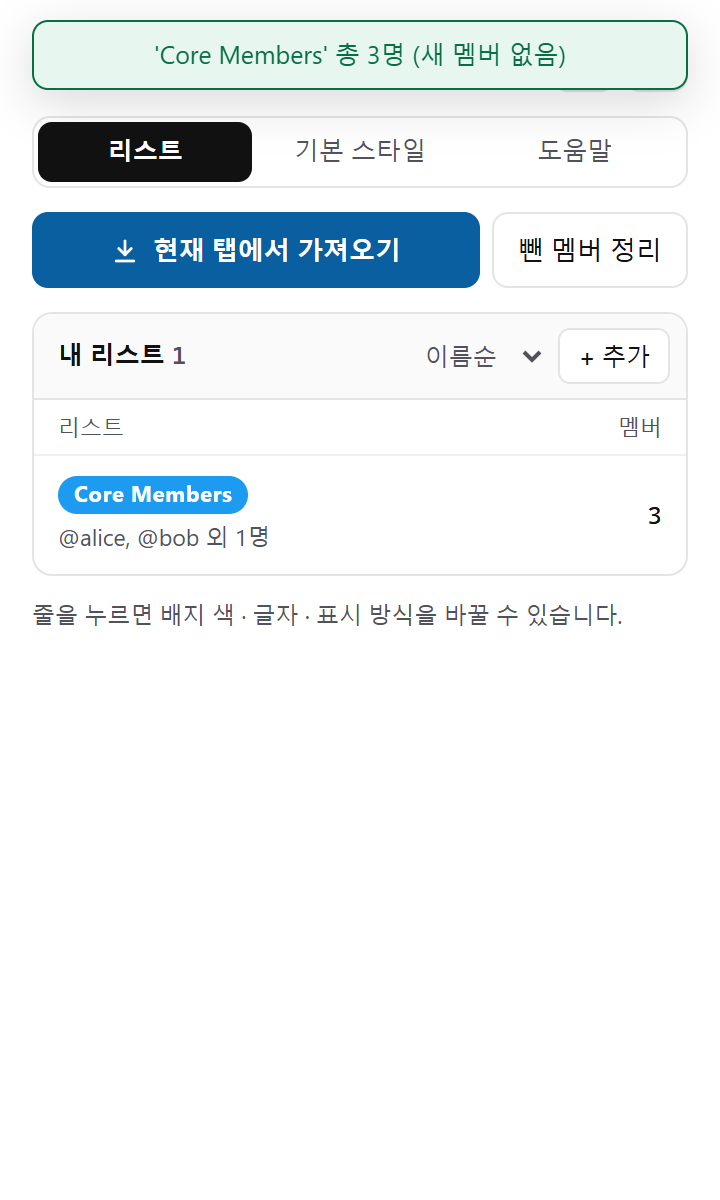
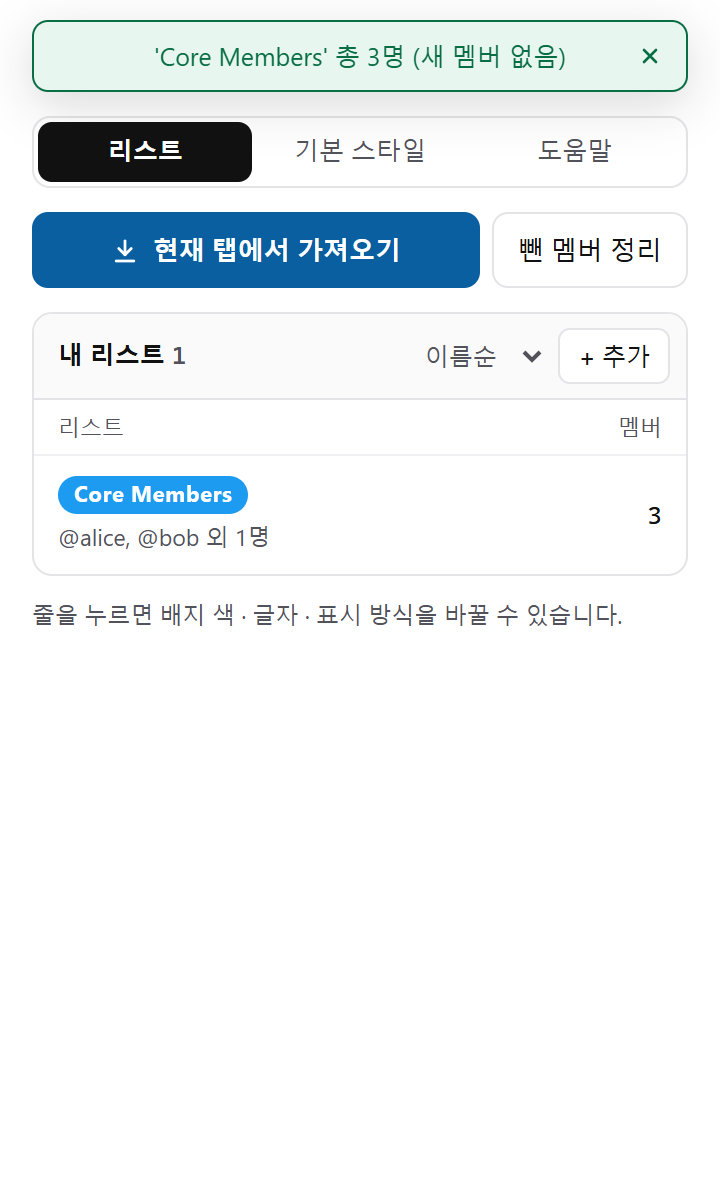
Add a close button to the popup status message
- The status message that floats at the top of the popup now has a
  close (x) button. Clicking the message still closes it, and it still
  disappears after 5 seconds; the button makes this visible and lets
  keyboard users close it.
- The message text moved into its own element (role="status") so the
  button is not part of the announced text.
- E2E test for closing by mouse and by keyboard. Test catalog and the
  README screenshot (popup-sync.png) updated.

Changed region(s): [[0.0611, 0.0308, 0.9472, 0.0925]]

diff --git a/extension/popup/core.js b/extension/popup/core.js
@@ -69,18 +69,26 @@ async function withButtonDisabled(button, task) {
 // 공통 UI (상태 메시지, 확인 상자, 뒤 화면 잠그기)
 // ==========================================
 
-// 화면 위에 뜨는 상태 메시지 (5초 뒤 사라짐, 누르면 바로 닫힘)
+// 화면 위에 뜨는 상태 메시지 (5초 뒤 사라짐, 닫기 버튼이나 메시지를 누르면 바로 닫힘)
 function showSyncStatus(message, isError = false) {
   const statusEl = byId('sync-status');
-  if (!statusEl) return;
+  const textEl = byId('sync-status-text');
+  if (!statusEl || !textEl) return;
   statusEl.className = 'sync-status ' + (isError ? 'error' : 'success');
-  statusEl.textContent = message;
-  statusEl.style.display = 'block';
+  textEl.textContent = message;
+  statusEl.style.display = 'flex';
 
   clearTimeout(statusTimer);
-  statusTimer = setTimeout(() => {
-    statusEl.style.display = 'none';
-  }, 5000);
+  statusTimer = setTimeout(hideSyncStatus, 5000);
+}
+
+function hideSyncStatus() {
+  clearTimeout(statusTimer);
+  const statusEl = byId('sync-status');
+  if (!statusEl) return;
+  // 닫기 버튼에 포커스가 있었다면 사라진 버튼에 남지 않게 풀어 줌
+  if (statusEl.contains(document.activeElement)) document.activeElement.blur();
+  statusEl.style.display = 'none';
 }
 
 // 팝업 안의 확인 상자 (브라우저 confirm() 대신). 확인하면 true, 취소하면 false
@@ -112,7 +120,8 @@ function askConfirm(message, okLabel = '확인') {
 function setupConfirmBox() {
   byId('confirm-ok-btn')?.addEventListener('click', () => resolveConfirm && resolveConfirm(true));
   byId('confirm-cancel-btn')?.addEventListener('click', () => resolveConfirm && resolveConfirm(false));
-  byId('sync-status')?.addEventListener('click', (e) => { e.currentTarget.style.display = 'none'; });
+  // 닫기 버튼을 누른 것도 여기로 올라옴 (메시지 어디를 눌러도 닫힘)
+  byId('sync-status')?.addEventListener('click', hideSyncStatus);
 }
 
 // 아직 화면에 있고 누를 수 있는 요소면 포커스를 돌려줌

diff --git a/extension/popup/popup.css b/extension/popup/popup.css
@@ -238,7 +238,7 @@ textarea:focus-visible,
   color: var(--muted);
 }
 .notice .btn { margin-top: 6px; }
-/* 상태 메시지: 어느 탭·시트에서도 보이도록 화면 위에 떠 있는 알림 (누르면 닫힘) */
+/* 상태 메시지: 어느 탭·시트에서도 보이도록 화면 위에 떠 있는 알림 (닫기 버튼이나 메시지를 누르면 닫힘) */
 .sync-status {
   position: fixed;
   top: 10px;
@@ -250,11 +250,34 @@ textarea:focus-visible,
   box-shadow: var(--card-shadow);
   cursor: pointer;
   border-radius: 8px;
-  padding: 8px 12px;
+  /* 왼쪽 여백 = 닫기 버튼(24px) + 간격: 글자가 가운데에 오도록 */
+  padding: 5px 6px 5px 38px;
   font-size: 12.5px;
   line-height: 1.35;
-  text-align: center;
+  align-items: center;
+  gap: 8px;
 }
+.sync-status-text {
+  flex: 1;
+  min-width: 0;
+  text-align: center;
+  overflow-wrap: anywhere;
+}
+.sync-status-close {
+  flex-shrink: 0;
+  width: 24px;
+  height: 24px;
+  padding: 0;
+  border: 0;
+  border-radius: 6px;
+  background: transparent;
+  color: inherit;
+  display: inline-flex;
+  align-items: center;
+  justify-content: center;
+  cursor: pointer;
+}
+.sync-status-close:hover { background: rgba(127, 127, 127, 0.22); }
 .sync-status.success { background: var(--success-soft); color: var(--success); border: 1px solid currentColor; }
 .sync-status.error { background: var(--danger-soft); color: var(--danger); border: 1px solid currentColor; }
 

diff --git a/tests/e2e/popup.spec.js b/tests/e2e/popup.spec.js
@@ -49,6 +49,25 @@ test.describe('팝업 기본 동작', () => {
     await expect(popup.locator('#sync-status')).toBeVisible();
   });
 
+  test('안내 메시지의 닫기 버튼(마우스·키보드)을 누르면 바로 사라지고, 다음 안내는 다시 보임', async ({ context, extensionId }) => {
+    const popup = await openPopup(context, extensionId);
+    const status = popup.locator('#sync-status');
+    const closeBtn = popup.getByRole('button', { name: '안내 닫기' });
+    await expect(closeBtn).toBeHidden(); // 안내가 없을 때는 버튼도 없음
+
+    await popup.click('#sync-current-tab-btn');
+    await expect(status).toBeVisible();
+    await closeBtn.click();
+    await expect(status).toBeHidden();
+
+    await popup.click('#sync-current-tab-btn');
+    await expect(status).toHaveText('현재 탭이 X(Twitter) 페이지가 아닙니다.');
+    await closeBtn.focus();
+    await popup.keyboard.press('Enter');
+    await expect(status).toBeHidden();
+    expect(await popup.evaluate(() => document.activeElement.id)).not.toBe('sync-status-close-btn');
+  });
+
   test('기존 리스트에 직접 추가하면 멤버만 추가되고 색상·모드는 유지', async ({ context, extensionId, serviceWorker }) => {
     await setStorage(serviceWorker, { lists: { '테크': { color: '#ff0055', mode: 'highlight', members: ['@a'] } } });
     const popup = await openPopup(context, extensionId);

diff --git a/extension/popup.html b/extension/popup.html
@@ -203,7 +203,12 @@
     </div>
   </div>
 
-  <div id="sync-status" class="sync-status" role="status" style="display:none;"></div>
+  <div id="sync-status" class="sync-status" style="display:none;">
+    <span id="sync-status-text" class="sync-status-text" role="status"></span>
+    <button id="sync-status-close-btn" type="button" class="sync-status-close" aria-label="안내 닫기" title="닫기">
+      <svg width="12" height="12" viewBox="0 0 24 24" fill="none" stroke="currentColor" stroke-width="2.6" stroke-linecap="round" aria-hidden="true"><path d="M6 6l12 12M18 6L6 18"/></svg>
+    </button>
+  </div>
 
   <script src="shared/base.js"></script>
   <script src="shared/list-names.js"></script>

diff --git a/docs/TEST_CASES.md b/docs/TEST_CASES.md
@@ -118,7 +118,7 @@ npm run test:report -- --firefox --write    # 결과를 docs/TEST_RESULTS.md 맨
 | U-35 | `ui.test.js` | 팝업 화면 설정 · 리스트 정렬 · 멤버 요약 · 빠른 선택 색 | 4 |
 | U-36 | `symbols.test.js` | 공통 코드(shared/*.js) 심볼 무결성 검증 | 1 |
 
-### E2E 테스트 (`tests/e2e/`, Playwright · 실제 확장 프로그램, 54건)
+### E2E 테스트 (`tests/e2e/`, Playwright · 실제 확장 프로그램, 55건)
 
 x.com 요청은 `tests/fixtures/synthetic/` 의 합성 페이지로 응답합니다. 실제 X 서버나 로그인은 쓰지 않습니다.
 
@@ -147,43 +147,44 @@ x.com 요청은 `tests/fixtures/synthetic/` 의 합성 페이지로 응답합니
 | C-19 | X 화면 구조 변화 감지 | 타임라인에 data-testid="tweet" 이 없으면 경고 기록 |
 | C-20 | X 화면 구조 변화 감지 | 정상 타임라인에서는 아무것도 기록하지 않음 |
 
-#### 팝업 (`popup.spec.js`, 33건)
+#### 팝업 (`popup.spec.js`, 34건)
 
 | 번호 | 묶음 | 확인 내용 |
 |:-:|---|---|
 | P-01 | 팝업 기본 동작 | 탭(리스트 / 기본 스타일 / 도움말)을 키보드 ← → 로 오갈 수 있음 |
 | P-02 | 팝업 기본 동작 | X 가 아닌 탭에서 [현재 탭에서 가져오기]를 누르면 "X 페이지가 아닙니다" 안내 |
-| P-03 | 팝업 기본 동작 | 기존 리스트에 직접 추가하면 멤버만 추가되고 색상·모드는 유지 |
-| P-04 | 팝업 기본 동작 | "X" 같은 이름도 직접 추가할 수 있고, 팝업을 다시 열어도 남아 있음 |
-| P-05 | 팝업 기본 동작 | 리스트 카드에 배지·멤버 수·요약이 보이고, 정렬(이름순 / 멤버 수)을 바꾸면 저장됨 |
-| P-06 | 팝업 기본 동작 | ⋯ 메뉴: 열면 첫 항목에 포커스, Esc·바깥 클릭으로 닫힘 |
-| P-07 | 화면 테마 (시스템 / 라이트 / 다크) | 기본은 시스템 설정을 따름 (운영체제가 다크면 다크, 라이트면 라이트) |
-| P-08 | 화면 테마 (시스템 / 라이트 / 다크) | 직접 고른 테마는 시스템 설정보다 우선하고, 저장되어 다음에 열 때 첫 화면부터 적용됨 |
-| P-09 | 화면 테마 (시스템 / 라이트 / 다크) | 다른 창에서 테마를 바꾸면 열려 있는 화면에도 바로 반영 |
-| P-10 | 리스트 설정 시트 | 카드를 누르면 시트가 열리고, Esc·닫기·바깥을 누르면 닫히며 포커스는 카드로 돌아감 |
-| P-11 | 리스트 설정 시트 | [이름 바꾸기]: 색·표시 방식·글자 스타일·멤버는 그대로 새 이름으로 옮기고, 시트는 열린 채 새 이름을 보여 줌 |
-| P-12 | 리스트 설정 시트 | [이름 바꾸기]: 직접 지은 이름에는 [X 이름 따르기]가 보이고, 누르면 직접 지은 이름 표시를 지움 |
-| P-13 | 리스트 설정 시트 | 배지 색(빠른 선택·직접 고르기)과 타임라인 표시(배지만/강조/흐리게)를 바꾸면 저장되고 미리보기에 반영 |
-| P-14 | 리스트 설정 시트 | 글자 크기·색상·폰트를 그 리스트만 따로 저장하고, [공통 설정 따르기]로 되돌림 |
-| P-15 | 리스트 설정 시트 | [멤버 N명 보기]로 멤버를 보고 지울 수 있음 |
-| P-16 | 리스트 설정 시트 | 리스트 삭제는 확인 상자에서 취소/확인할 수 있음 (브라우저 confirm 사용 안 함) |
-| P-17 | 리스트 설정 시트 | [이 스타일을 모든 리스트에 적용]: 공통 설정이 그 스타일로 바뀌고 다른 리스트의 개별 스타일은 지워짐 |
-| P-18 | 리스트 설정 시트 | 팝업을 열면 시트가 저장된 공통 설정 값을 보여 줌 |
-| P-19 | 배지 기본 스타일 (기본 스타일 탭) | 글자 크기·폰트를 바꾸면 저장되고, 리스트 카드 배지에도 반영 |
-| P-20 | 배지 기본 스타일 (기본 스타일 탭) | 공통 설정 [모든 리스트에 적용]: 개별 스타일을 모두 지움 (없으면 안내만) |
-| P-21 | 새 탭에서 열기 · 파이어폭스 팝업 우회 · x.com 접근 권한 | ↗ 새 탭에서 열기: 같은 화면이 탭으로 열리고, 그 탭의 [가져오기]는 원래 보던 X 탭을 대상으로 동작 |
-| P-22 | 새 탭에서 열기 · 파이어폭스 팝업 우회 · x.com 접근 권한 | 새 탭 화면에서 원래 X 탭이 닫혔으면 안내 |
-| P-23 | 새 탭에서 열기 · 파이어폭스 팝업 우회 · x.com 접근 권한 | 크롬 팝업에서는 ⋯ 메뉴의 [백업 파일 가져오기]가 바로 파일 선택 창을 엶 (파이어폭스 우회가 끼어들지 않음) |
-| P-24 | 새 탭에서 열기 · 파이어폭스 팝업 우회 · x.com 접근 권한 | 파이어폭스 팝업에서는 가져오기가 파일 선택 창 대신 새 탭 화면을 엶 |
-| P-25 | 새 탭에서 열기 · 파이어폭스 팝업 우회 · x.com 접근 권한 | 파이어폭스 팝업에서 시트의 [다른 색]도 새 탭 화면으로, 그 탭에서는 같은 리스트 시트가 열려 있음 |
-| P-26 | 새 탭에서 열기 · 파이어폭스 팝업 우회 · x.com 접근 권한 | x.com 접근 권한이 있으면 안내 없음, 꺼져 있으면 안내와 [허용] 버튼 |
-| P-27 | 백업 | 내보내기 파일에 리스트와 배지 설정이 함께 들어감 |
-| P-28 | 백업 | 가져오기 → 덮어쓰기는 리스트와 배지 설정을 모두 복원 |
-| P-29 | X 화면 구조 변화 경고 | 구조 이상이 기록되면 팝업에 경고가 보이고, 해제되면 바로 사라짐 |
-| P-30 | X 화면 구조 변화 경고 | 2주가 지난 경고는 표시하지 않음 |
-| P-31 | 팝업 ↔ X 탭 연동 | [가져오기]로 현재 X 탭의 멤버를 즉시 저장 |
-| P-32 | 팝업 ↔ X 탭 연동 | [뺀 멤버 정리]: 미리보기 확인 상자 → 확인 시 뺀 멤버 삭제 |
-| P-33 | 팝업 ↔ X 탭 연동 | [뺀 멤버 정리]: 이미 최신이면 확인 없이 안내만 |
+| P-03 | 팝업 기본 동작 | 안내 메시지의 닫기 버튼(마우스·키보드)을 누르면 바로 사라지고, 다음 안내는 다시 보임 |
+| P-04 | 팝업 기본 동작 | 기존 리스트에 직접 추가하면 멤버만 추가되고 색상·모드는 유지 |
+| P-05 | 팝업 기본 동작 | "X" 같은 이름도 직접 추가할 수 있고, 팝업을 다시 열어도 남아 있음 |
+| P-06 | 팝업 기본 동작 | 리스트 카드에 배지·멤버 수·요약이 보이고, 정렬(이름순 / 멤버 수)을 바꾸면 저장됨 |
+| P-07 | 팝업 기본 동작 | ⋯ 메뉴: 열면 첫 항목에 포커스, Esc·바깥 클릭으로 닫힘 |
+| P-08 | 화면 테마 (시스템 / 라이트 / 다크) | 기본은 시스템 설정을 따름 (운영체제가 다크면 다크, 라이트면 라이트) |
+| P-09 | 화면 테마 (시스템 / 라이트 / 다크) | 직접 고른 테마는 시스템 설정보다 우선하고, 저장되어 다음에 열 때 첫 화면부터 적용됨 |
+| P-10 | 화면 테마 (시스템 / 라이트 / 다크) | 다른 창에서 테마를 바꾸면 열려 있는 화면에도 바로 반영 |
+| P-11 | 리스트 설정 시트 | 카드를 누르면 시트가 열리고, Esc·닫기·바깥을 누르면 닫히며 포커스는 카드로 돌아감 |
+| P-12 | 리스트 설정 시트 | [이름 바꾸기]: 색·표시 방식·글자 스타일·멤버는 그대로 새 이름으로 옮기고, 시트는 열린 채 새 이름을 보여 줌 |
+| P-13 | 리스트 설정 시트 | [이름 바꾸기]: 직접 지은 이름에는 [X 이름 따르기]가 보이고, 누르면 직접 지은 이름 표시를 지움 |
+| P-14 | 리스트 설정 시트 | 배지 색(빠른 선택·직접 고르기)과 타임라인 표시(배지만/강조/흐리게)를 바꾸면 저장되고 미리보기에 반영 |
+| P-15 | 리스트 설정 시트 | 글자 크기·색상·폰트를 그 리스트만 따로 저장하고, [공통 설정 따르기]로 되돌림 |
+| P-16 | 리스트 설정 시트 | [멤버 N명 보기]로 멤버를 보고 지울 수 있음 |
+| P-17 | 리스트 설정 시트 | 리스트 삭제는 확인 상자에서 취소/확인할 수 있음 (브라우저 confirm 사용 안 함) |
+| P-18 | 리스트 설정 시트 | [이 스타일을 모든 리스트에 적용]: 공통 설정이 그 스타일로 바뀌고 다른 리스트의 개별 스타일은 지워짐 |
+| P-19 | 리스트 설정 시트 | 팝업을 열면 시트가 저장된 공통 설정 값을 보여 줌 |
+| P-20 | 배지 기본 스타일 (기본 스타일 탭) | 글자 크기·폰트를 바꾸면 저장되고, 리스트 카드 배지에도 반영 |
+| P-21 | 배지 기본 스타일 (기본 스타일 탭) | 공통 설정 [모든 리스트에 적용]: 개별 스타일을 모두 지움 (없으면 안내만) |
+| P-22 | 새 탭에서 열기 · 파이어폭스 팝업 우회 · x.com 접근 권한 | ↗ 새 탭에서 열기: 같은 화면이 탭으로 열리고, 그 탭의 [가져오기]는 원래 보던 X 탭을 대상으로 동작 |
+| P-23 | 새 탭에서 열기 · 파이어폭스 팝업 우회 · x.com 접근 권한 | 새 탭 화면에서 원래 X 탭이 닫혔으면 안내 |
+| P-24 | 새 탭에서 열기 · 파이어폭스 팝업 우회 · x.com 접근 권한 | 크롬 팝업에서는 ⋯ 메뉴의 [백업 파일 가져오기]가 바로 파일 선택 창을 엶 (파이어폭스 우회가 끼어들지 않음) |
+| P-25 | 새 탭에서 열기 · 파이어폭스 팝업 우회 · x.com 접근 권한 | 파이어폭스 팝업에서는 가져오기가 파일 선택 창 대신 새 탭 화면을 엶 |
+| P-26 | 새 탭에서 열기 · 파이어폭스 팝업 우회 · x.com 접근 권한 | 파이어폭스 팝업에서 시트의 [다른 색]도 새 탭 화면으로, 그 탭에서는 같은 리스트 시트가 열려 있음 |
+| P-27 | 새 탭에서 열기 · 파이어폭스 팝업 우회 · x.com 접근 권한 | x.com 접근 권한이 있으면 안내 없음, 꺼져 있으면 안내와 [허용] 버튼 |
+| P-28 | 백업 | 내보내기 파일에 리스트와 배지 설정이 함께 들어감 |
+| P-29 | 백업 | 가져오기 → 덮어쓰기는 리스트와 배지 설정을 모두 복원 |
+| P-30 | X 화면 구조 변화 경고 | 구조 이상이 기록되면 팝업에 경고가 보이고, 해제되면 바로 사라짐 |
+| P-31 | X 화면 구조 변화 경고 | 2주가 지난 경고는 표시하지 않음 |
+| P-32 | 팝업 ↔ X 탭 연동 | [가져오기]로 현재 X 탭의 멤버를 즉시 저장 |
+| P-33 | 팝업 ↔ X 탭 연동 | [뺀 멤버 정리]: 미리보기 확인 상자 → 확인 시 뺀 멤버 삭제 |
+| P-34 | 팝업 ↔ X 탭 연동 | [뺀 멤버 정리]: 이미 최신이면 확인 없이 안내만 |
 
 #### 단위 테스트 실행 (`unit-runner.spec.js`, 1건)
 

diff --git a/docs/CHANGELOG.md b/docs/CHANGELOG.md
@@ -17,6 +17,7 @@
   - 팝업에서 직접 바꾼 이름은 X 이름으로 덮어쓰지 않습니다. 설정 창의 **[X 이름 따르기]**를 누르면 다음에 가져올 때 다시 X 이름을 따라갑니다.
   - 저장 데이터: 이름을 직접 바꾼 리스트에 `customName: true` 표시가 추가됩니다. 백업 파일에도 들어가며, 백업 가져오기(병합)는 예전처럼 지금 이름을 유지합니다.
   - 테스트: 단위 16건(125 → 141건), E2E 3건을 추가했습니다.
+- **안내 메시지에 닫기 버튼 (`popup.html`, `popup/core.js`)**: 팝업 위쪽에 잠깐 뜨는 안내 메시지("…저장되었습니다" 등)의 오른쪽에 닫기(×) 버튼을 넣었습니다. 예전에도 메시지를 누르면 닫혔지만 눈에 보이는 버튼이 없었고, 키보드로는 닫을 수 없었습니다. 5초 뒤 저절로 사라지는 것과 메시지를 눌러 닫는 것은 그대로입니다. E2E 테스트 1건을 추가했습니다.
 
 ### 🛠 Changed (변경 및 개선)
 - **MIT 라이선스 적용 (`LICENSE`)**: 저장소에 MIT 라이선스 파일을 추가하고, README 에 라이선스 항목과 만든 사람(닉네임, X 계정)을 넣었습니다. `package.json` 의 `license` 도 `UNLICENSED` 에서 `MIT` 로 바꿨습니다. 확장 프로그램의 동작은 그대로입니다.
